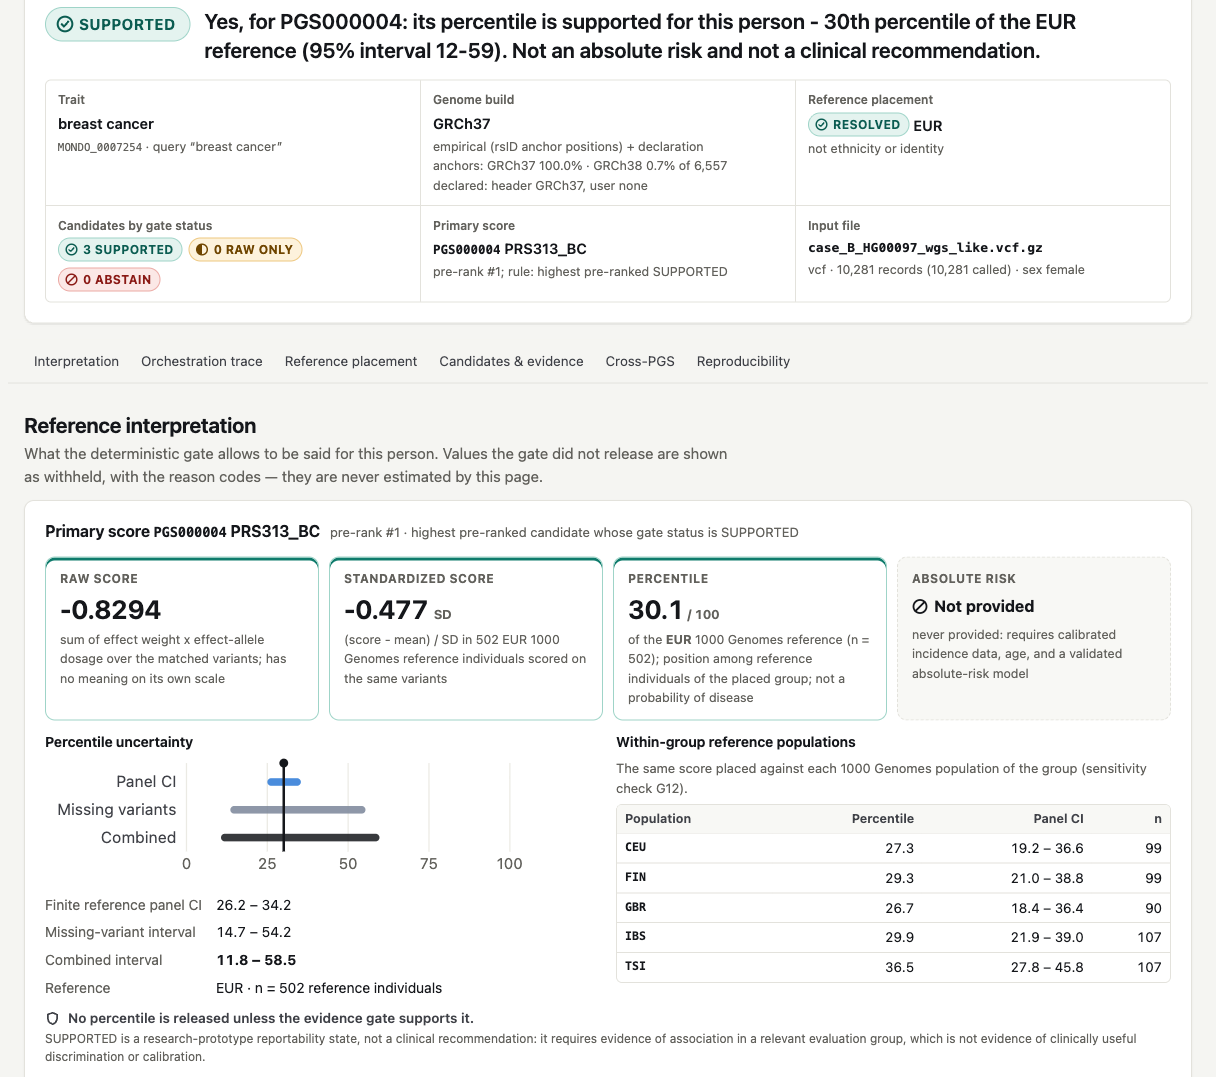
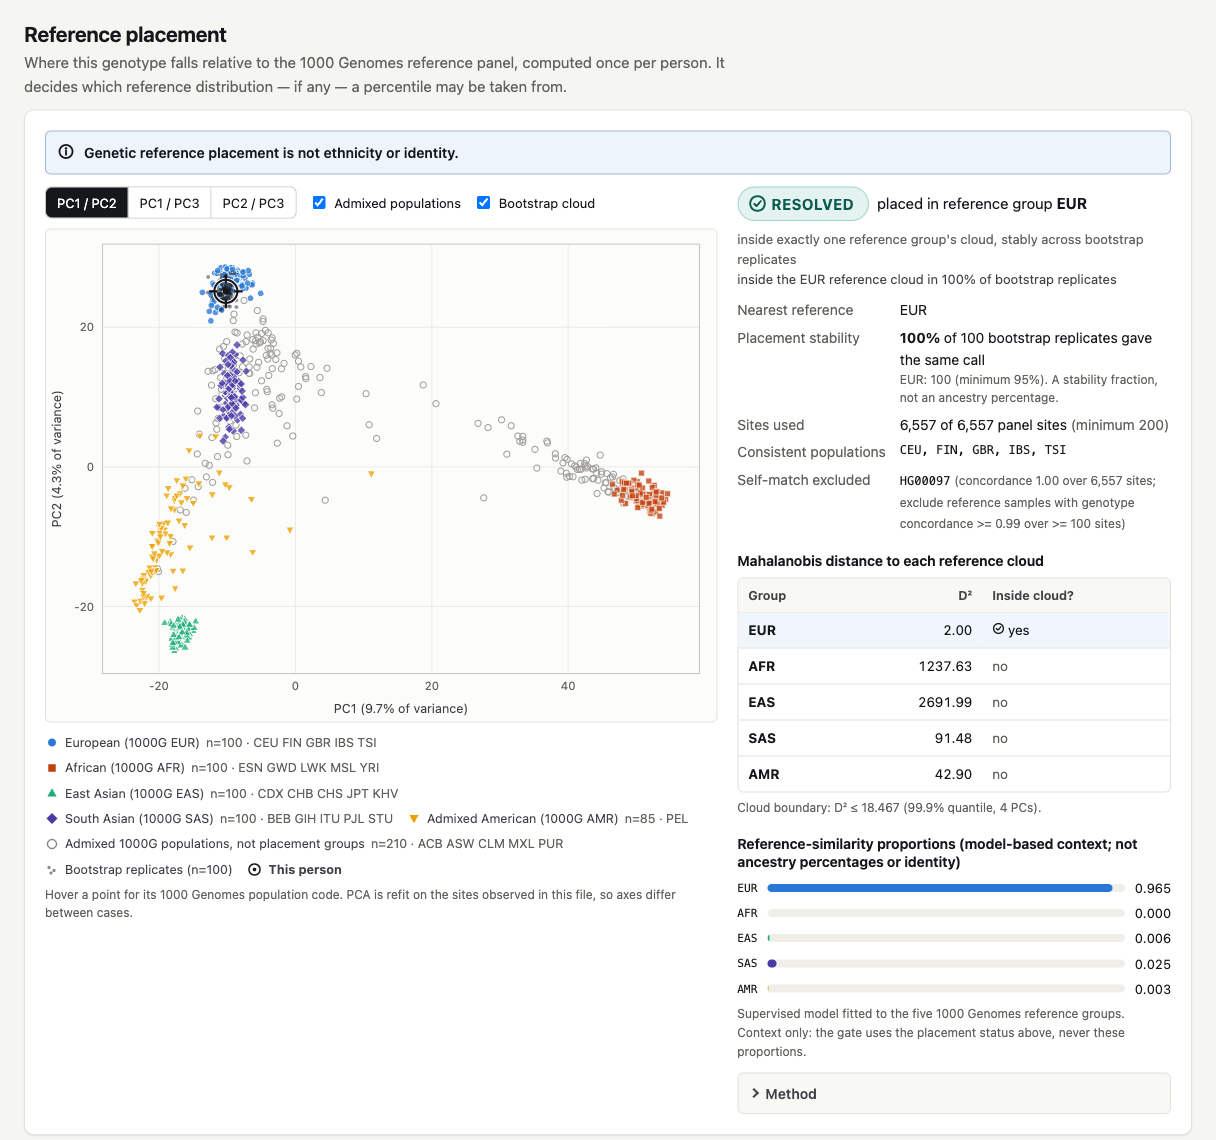
Show the PRSGuard reference-placement view

Changed region(s): [[0.0, 0.0, 0.9688, 1.0], [0.4375, 0.3064, 0.4688, 0.337], [0.375, 0.3064, 0.4062, 0.337]]

diff --git a/index.html b/index.html
@@ -110,9 +110,9 @@ runMosaicExport(spec = spec, specType = "json",
 
   <article class="project">
     <div class="media">
-      <a href="https://rinatrizvanov.github.io/prsguard-demo/?case=B"><img src="assets/prsguard-demo.png" width="1216" height="1077" loading="lazy" alt="PRSGuard result for a breast cancer score: gate status SUPPORTED, 30th percentile of the European reference with a 95 percent interval of 12 to 59, raw and standardized scores shown, absolute risk not provided"></a>
+      <a href="https://rinatrizvanov.github.io/prsguard-demo/?case=B"><img src="assets/prsguard-demo.png" width="1216" height="1140" loading="lazy" alt="PRSGuard reference placement: a principal component plot of 1000 Genomes reference groups with this person marked inside the European cluster, placement RESOLVED as EUR, and a table of Mahalanobis distances to each reference cloud"></a>
       <a href="assets/prsguard-pipeline.png"><img src="assets/prsguard-pipeline.png" width="1400" height="788" loading="lazy" alt="PRSGuard pipeline slide: an agent plans the run, a deterministic core harmonizes, scores, audits evidence and applies the gate for each polygenic score"></a>
-      <p class="caption">The live demo on a public 1000 Genomes sample: the gate releases a percentile with its uncertainty and withholds absolute risk. Below, the pipeline from the hackathon slides.</p>
+      <p class="caption">The live demo on a public 1000 Genomes sample: the person is placed among the reference clusters before any percentile is released, with bootstrap stability and the distance to each cloud. Below, the pipeline from the hackathon slides.</p>
     </div>
     <div class="body">
       <p class="kicker">Winner, ClawBio Hackathons: Agentic Genomics 2026 - team project</p>
